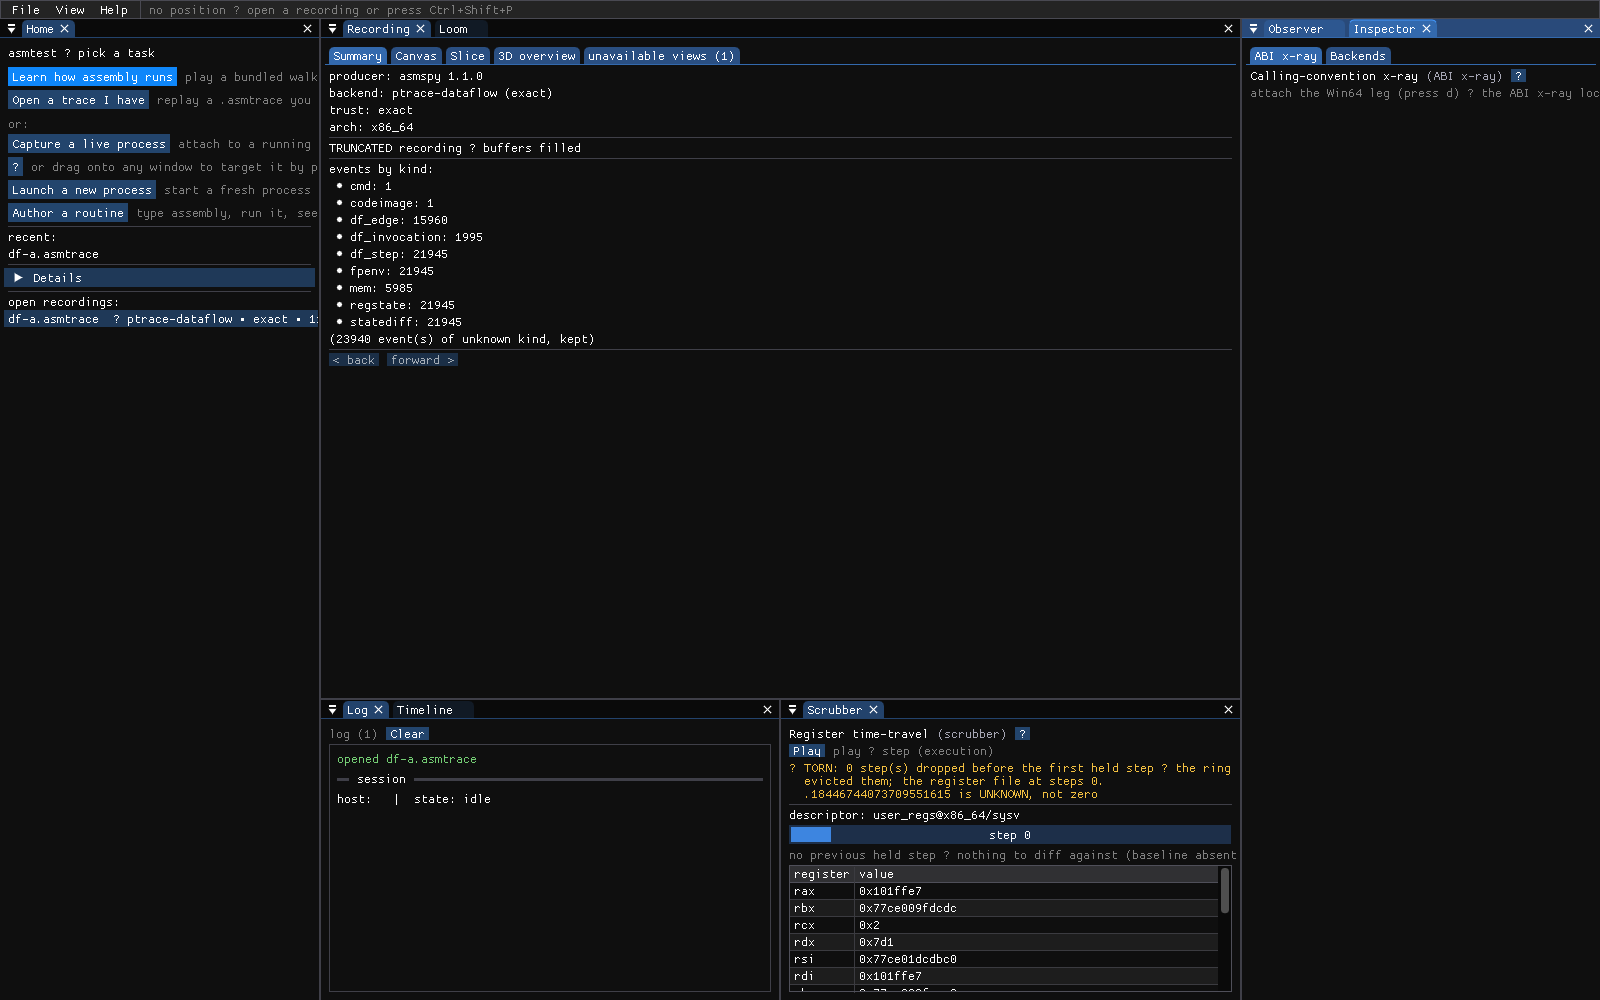
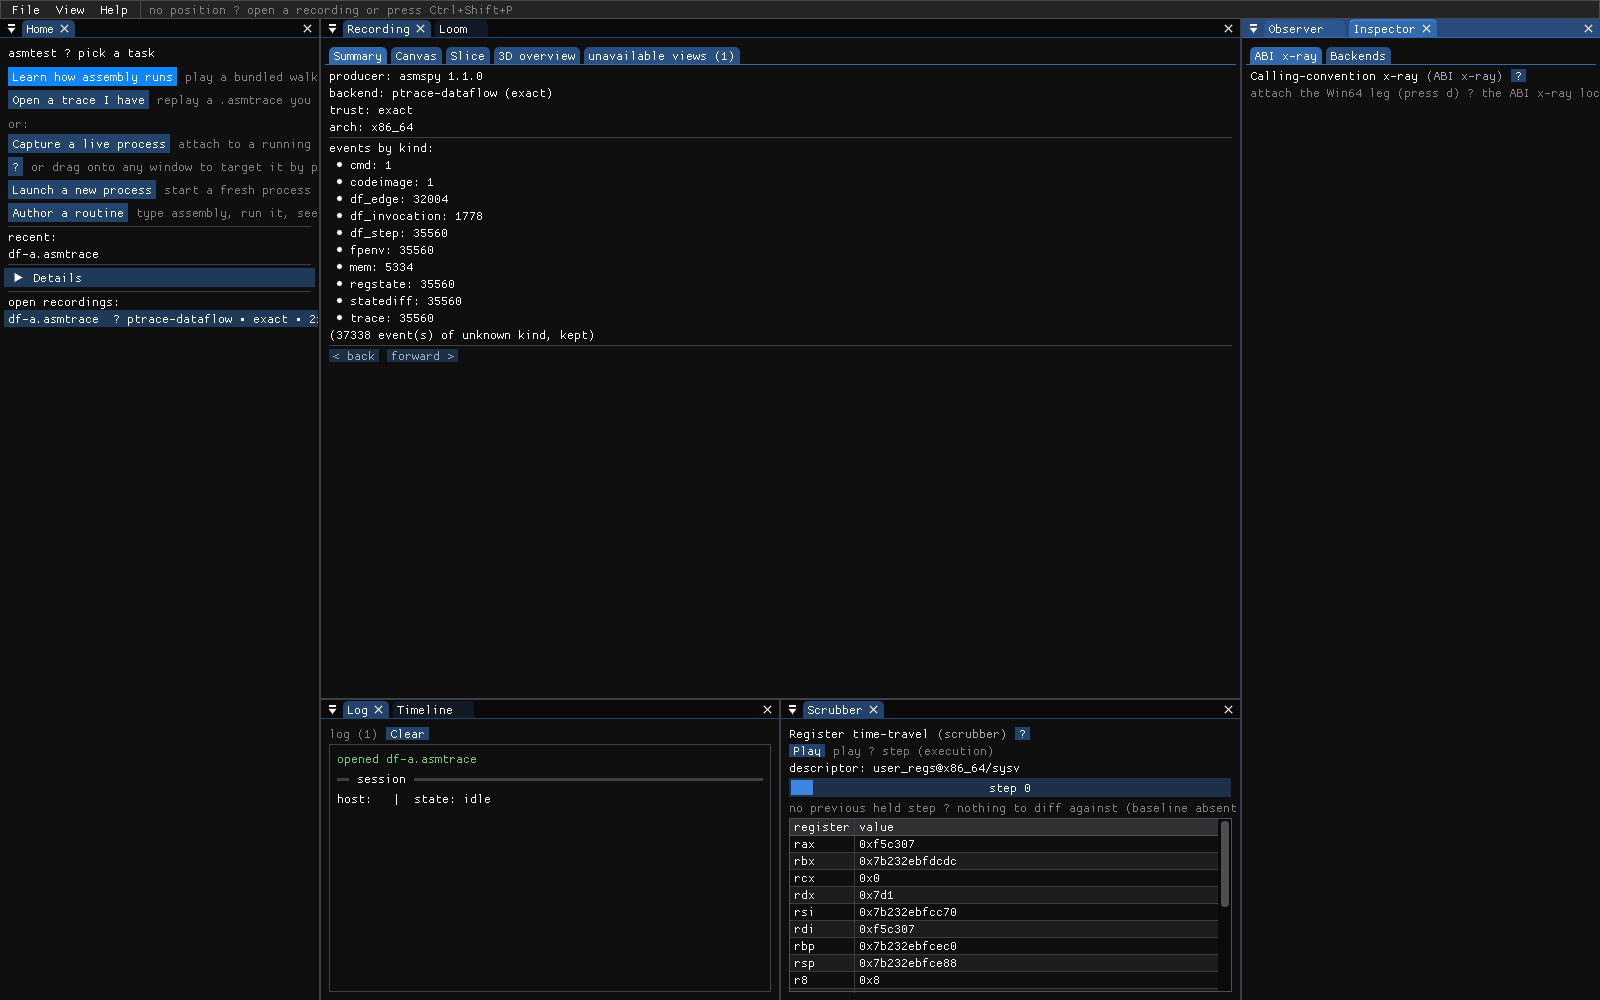
cli,docs: give scenes_victim a seed-selected branch, so the pair really forks
The divergence worldline draws two recordings sharing a prefix and then parting.
With insns it could finally align the pair and draw ribs, but blend_tile had no
data-dependent branch, so both seeds executed the same instructions: the scene
showed state disagreement along a stream that never actually parted.

blend_tile now branches on g_variant, a runtime value fixed once from --seed.
Both arms are 4-byte-lane ops so the lane prism reads the same width either way,
and `volatile` keeps the branch in the instruction stream instead of letting -O2
fold it.

The selection has to be a RUNTIME one. Choosing the path with a #define would
make the two sides different code, and the scene would refuse the pair rather
than draw a fork — the opposite of the intent.

Measured: the shot went from "11 rib(s), 1 hollow" along an unparted stream to
"20 rib(s), 4 hollow" with the two ribbons visibly separating, and the ABI x-ray
independently reports the runs parted (20 steps against 17).

Guide updated to match, and the twelve committed images re-rendered.
make docker-docs exits 0 with zero warnings.

Changed region(s): [[0.4688, 0.744, 0.7812, 0.992], [0.1875, 0.155, 0.3125, 0.372]]

diff --git a/cli/scenes_victim.c b/cli/scenes_victim.c
@@ -66,15 +66,33 @@ static volatile long g_sink;
 static long *g_heap;
 static int g_tile[4] __attribute__((aligned(16)));
 
+/* Which path blend_tile takes, fixed once from --seed. THIS IS THE DIVERGENCE
+ * SCENE'S SUBJECT: two runs of the SAME binary share a prefix and then part.
+ *
+ * It must be a runtime value, never a compile-time one. The divergence scene
+ * compares two recordings of the same routine; if the seed selected the path at
+ * compile time the two sides would be different code and the scene would refuse
+ * the pair rather than draw a fork. `volatile` keeps the branch in the
+ * instruction stream instead of letting -O2 fold it away. */
+static volatile int g_variant;
+
 /* The SSE hot routine: the LanePrism scene's whole input, and the region an
  * --trace capture pages by invocation. -O2 locally so the captured window is
  * tight enough to read; see the file comment. */
 __attribute__((noinline, optimize("O2"))) long blend_tile(long x) {
     __m128i a = _mm_loadu_si128((const __m128i *)g_tile);
     __m128i b = _mm_set1_epi32((int)(x & 0x7fffffff));
-    __m128i c = _mm_add_epi32(a, b); /* paddd  — 4-byte lanes, nameable */
-    c = _mm_shuffle_epi32(c, 0x1B);  /* pshufd — reverses the lane order */
-    c = _mm_unpacklo_epi32(c, a);    /* punpckldq — interleaves two writes */
+    __m128i c;
+    /* The shared prefix ends here. Both runs executed everything above
+     * identically; from this branch on they part, which is exactly what the
+     * divergence worldline draws. Both arms are 4-byte-lane ops, so the lane
+     * prism reads the same width either way. */
+    if (g_variant)
+        c = _mm_sub_epi32(a, b); /* psubd — 4-byte lanes, nameable */
+    else
+        c = _mm_add_epi32(a, b);    /* paddd — 4-byte lanes, nameable */
+    c = _mm_shuffle_epi32(c, 0x1B); /* pshufd — reverses the lane order */
+    c = _mm_unpacklo_epi32(c, a);   /* punpckldq — interleaves two writes */
     _mm_storeu_si128((__m128i *)g_tile, c);
     return (long)_mm_cvtsi128_si32(c);
 }
@@ -165,6 +183,11 @@ int main(int argc, char **argv) {
         nthreads = 1;
     if (nthreads > 8)
         nthreads = 8;
+
+    /* Fixed once, at runtime, from the seed: the two runs are the same binary
+     * taking different paths — which is what keeps the divergence pair
+     * comparable while still giving it a fork to find. */
+    g_variant = (int)(seed & 1);
 
     prctl(PR_SET_PTRACER, PR_SET_PTRACER_ANY, 0, 0, 0);
 

diff --git a/docs/guides/desktop-gui-scenes.md b/docs/guides/desktop-gui-scenes.md
@@ -170,10 +170,17 @@ Two recordings, one shared prefix, then a fork.
 > NOT a proof of instruction correspondence past the fork: after the streams
 > part, A's step n and B's step n need not be the same instruction
 
-Needs **two** recordings whose `code_sha` matches — the same code, run on
-different data. The two sides here differ only in the `--seed` passed to the
-sample program. A mismatch is refused with a card rather than drawn, because a
-divergence between two different routines would not mean anything.
+Needs **two** recordings of the same code run on different data. The two sides
+here differ only in the `--seed` passed to the sample program, which fixes a
+runtime variable that selects a branch inside `blend_tile`. Both runs execute
+the same binary and share an identical prefix; the branch is where they part.
+
+Making that selection at *compile* time would break the scene rather than
+sharpen it: the two sides would then be different code, and the pair would be
+refused rather than drawn.
+
+This scene is also the one that needs the most from a recording — three streams
+at once, which is why the capture asks for `insns` (see below).
 
 A rib's thickness is how many registers disagree at that step. A **hollow** rib
 means at least one side had no computed delta there, so agreement was never
@@ -233,6 +240,16 @@ photographs whatever else was on screen.
 deck. The lane prism does not need it: the dataflow producer reads XMM operands
 directly.
 
+`insns` is what makes the divergence pair comparable at all. That scene needs
+three streams in one recording — `codeimage` so the 3D pane exists, `trace` or
+`coverage` to **align** the two sides, and `statediff` for the ribs — and until
+`insns` existed no single session produced all three. Only the dataflow engine
+emits `statediff` (it is a delta of the per-step register ring) and only the
+region engine emitted `trace`, so the scene refused the pair with *"both
+recordings need a trace or coverage stream to be aligned"*. `insns` has the
+dataflow session also state the instruction order it already single-stepped
+through. It is off by default, so existing recordings are unchanged.
+
 ### 4. The sample program
 
 `cli/scenes_victim.c` exists so these scenes have something honest to draw. Its
@@ -243,8 +260,9 @@ shape is the requirement — each part is there to satisfy one scene's data gate
 | `blend_tile()` — SSE work on a 16-byte tile, entered constantly | the lane prism's wide register writes, and the invocation stack's repeated entries |
 | three worker threads descending through `walk_heap` / `sort_batch` / `mix_math` into libc and libm | the ribbon's thread lanes, call depths and module colours |
 | a strided walk over a few hundred KB of heap | the plane's observed data spans |
-| `--seed N` | the divergence fork |
+| `--seed N`, which fixes a runtime variable selecting a branch in `blend_tile` | the divergence fork — a shared prefix, then two parting streams |
 
-The seed changes **input data only, never code**. That is deliberate: the
-divergence scene requires both sides to share a `code_sha`, so a variant that
-changed a compiled constant would produce a refusal card instead of a fork.
+The seed changes **runtime data only, never the compiled code**. That is
+deliberate: the divergence scene compares two recordings of the same routine, so
+a variant that selected its path with a `#define` would make the two sides
+different code and get the pair refused instead of drawn.
